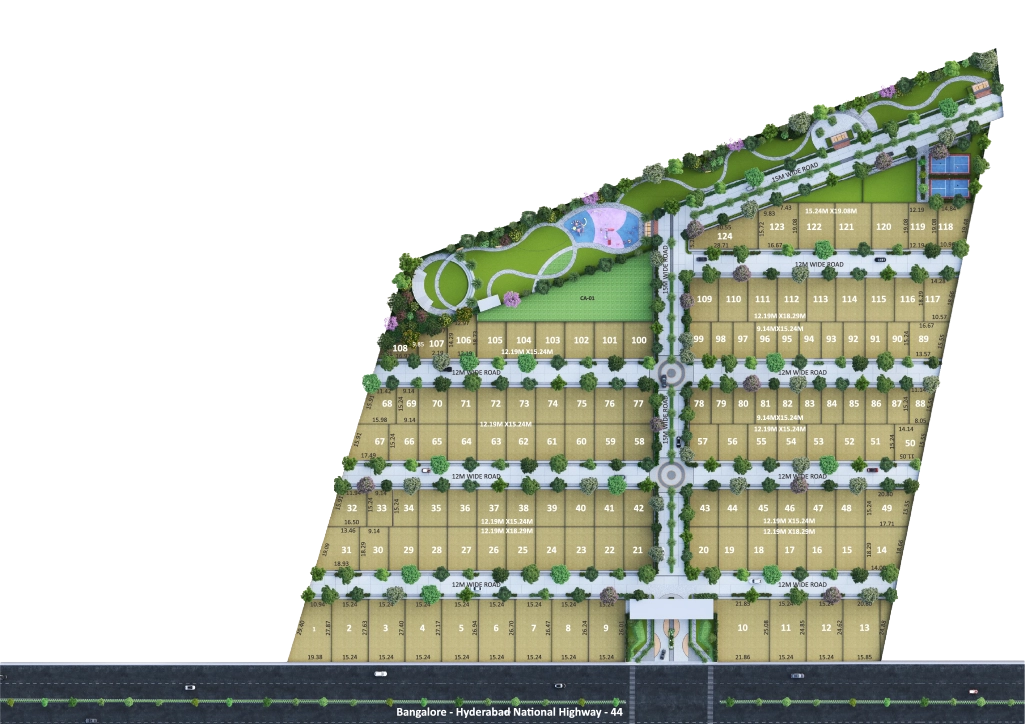
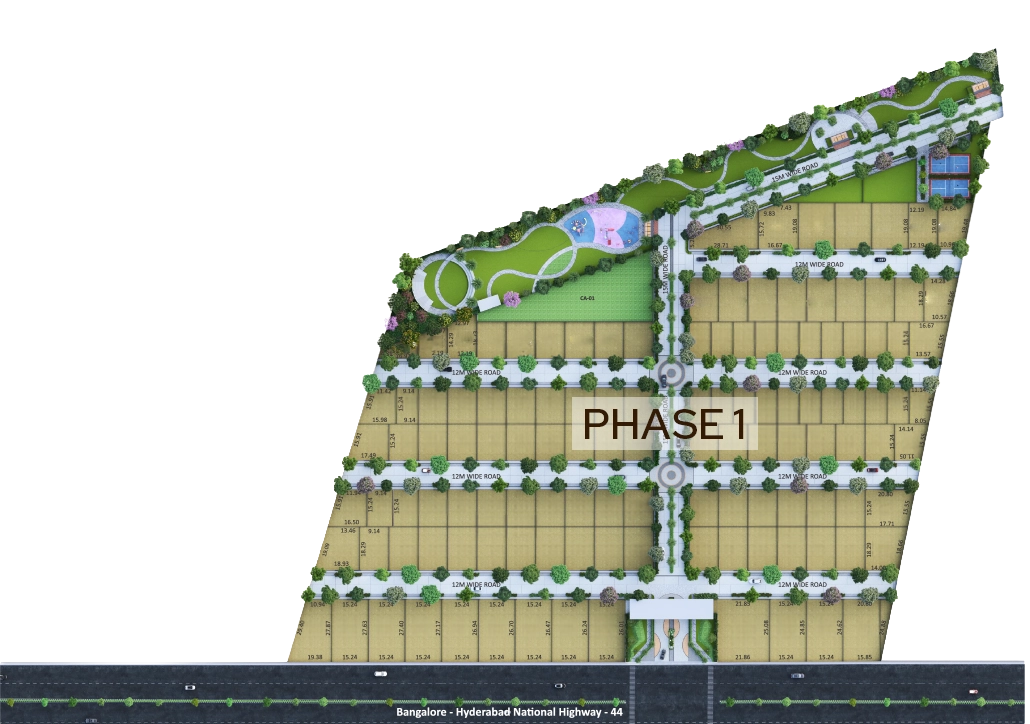
ahnged mastr plan image

diff --git a/src/components/MasterPlanSection.jsx b/src/components/MasterPlanSection.jsx
@@ -70,11 +70,7 @@ const MasterPlanSection = () => {
        
           >
             <div className="w-full flex flex-col  items-center">
-              <div
-                    className=" text-black font-semibold text-sm  translate-y-18 text-center leading-tight bg-transparent"
-                  >
-                Phase 1   
-                  </div>
+              
               <img
                 src="/masterplan.webp"
                 alt="Master Plan Map"
@@ -114,11 +110,7 @@ const MasterPlanSection = () => {
             mt-8 sm:mt-10 lg:mt-0"
        
           >
-            <div className="w-full flex flex-col items-center text-left"> <div
-                    className=" text-black font-semibold text-sm   text-center leading-tight bg-transparent"
-                  >
-                Phase 1   
-                  </div>
+            <div className="w-full flex flex-col items-center text-left"> 
               <img
                 src="/masterplan.webp"
                 alt="Master Plan Map"
